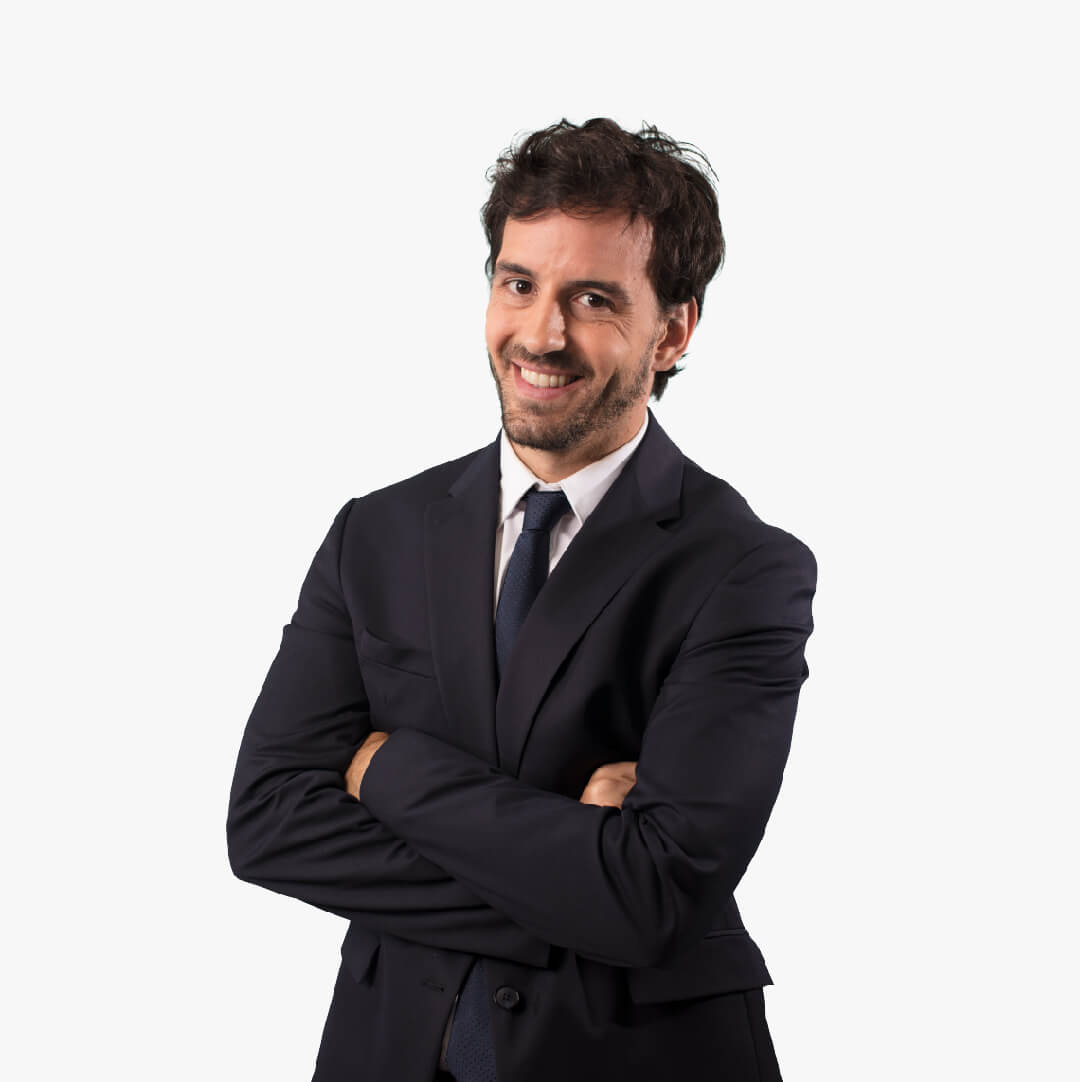
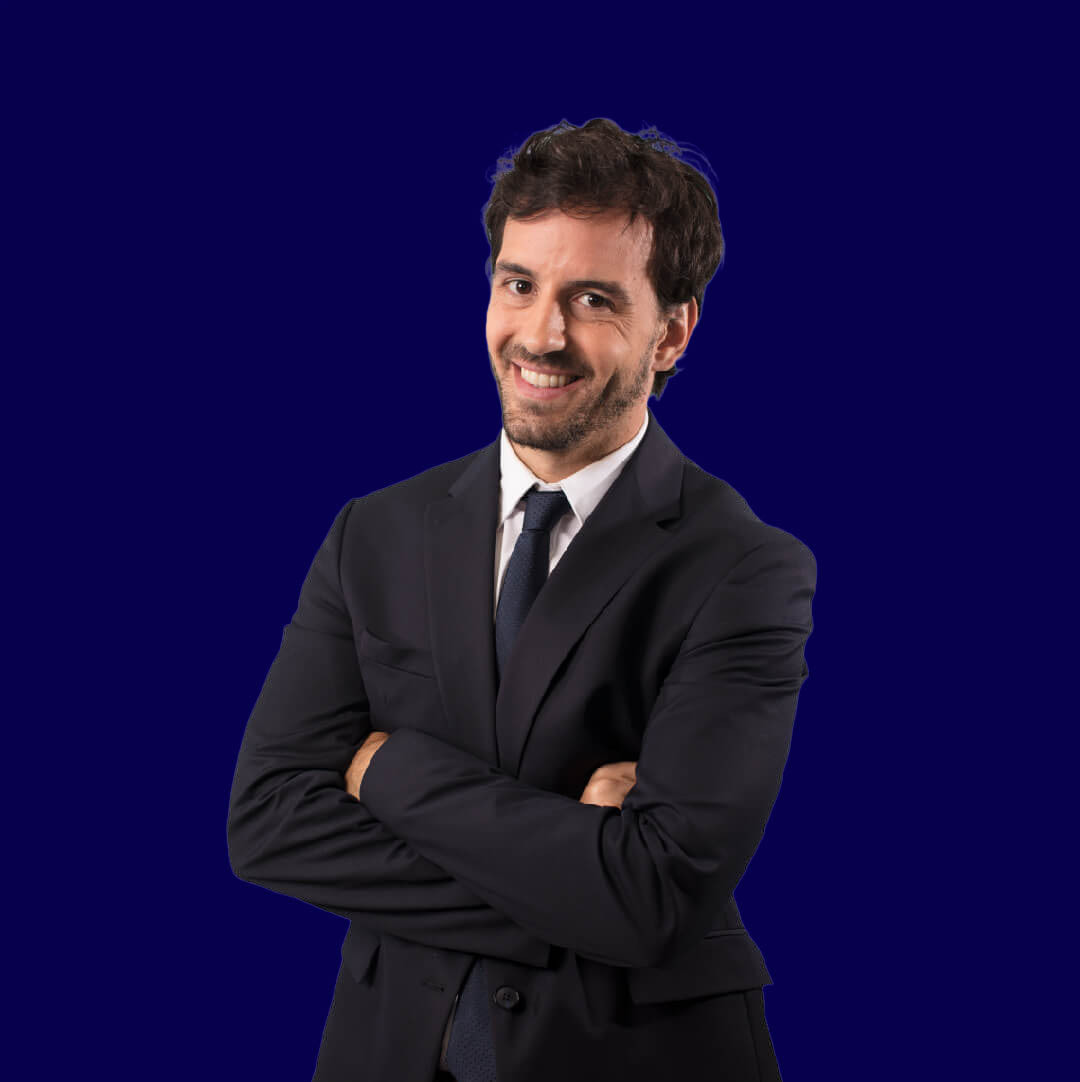
f

diff --git a/trabajos/prudential_segurosdevida.php b/trabajos/prudential_segurosdevida.php
@@ -84,22 +84,7 @@ $PAGE_TITLE = "Kahlo Agencia - Prudential";
 
 <?php include_once("../templates/home/footer.php"); ?>
 
-<!-- Loader -->
-<div class="loading-screen" id="loading-screen">
-    <span class="bar top-bar"></span>
-    <span class="bar down-bar"></span>
-    <span class="progress-line"></span>
-    <span class="loading-counter"> </span>
-</div>
 
-<div class="bg-noise"></div>
-
-<!-- back to top -->
-<div class="progress-wrap">
-    <svg class="progress-circle svg-content" width="100%" height="100%" viewBox="-1 -1 102 102" aria-hidden="true">
-        <path d="M50,1 a49,49 0 0,1 0,98 a49,49 0 0,1 0,-98"></path>
-    </svg>
-</div>
 
 <!-- Scripts -->
 <script defer src="../js/jquery.min.js"></script>
